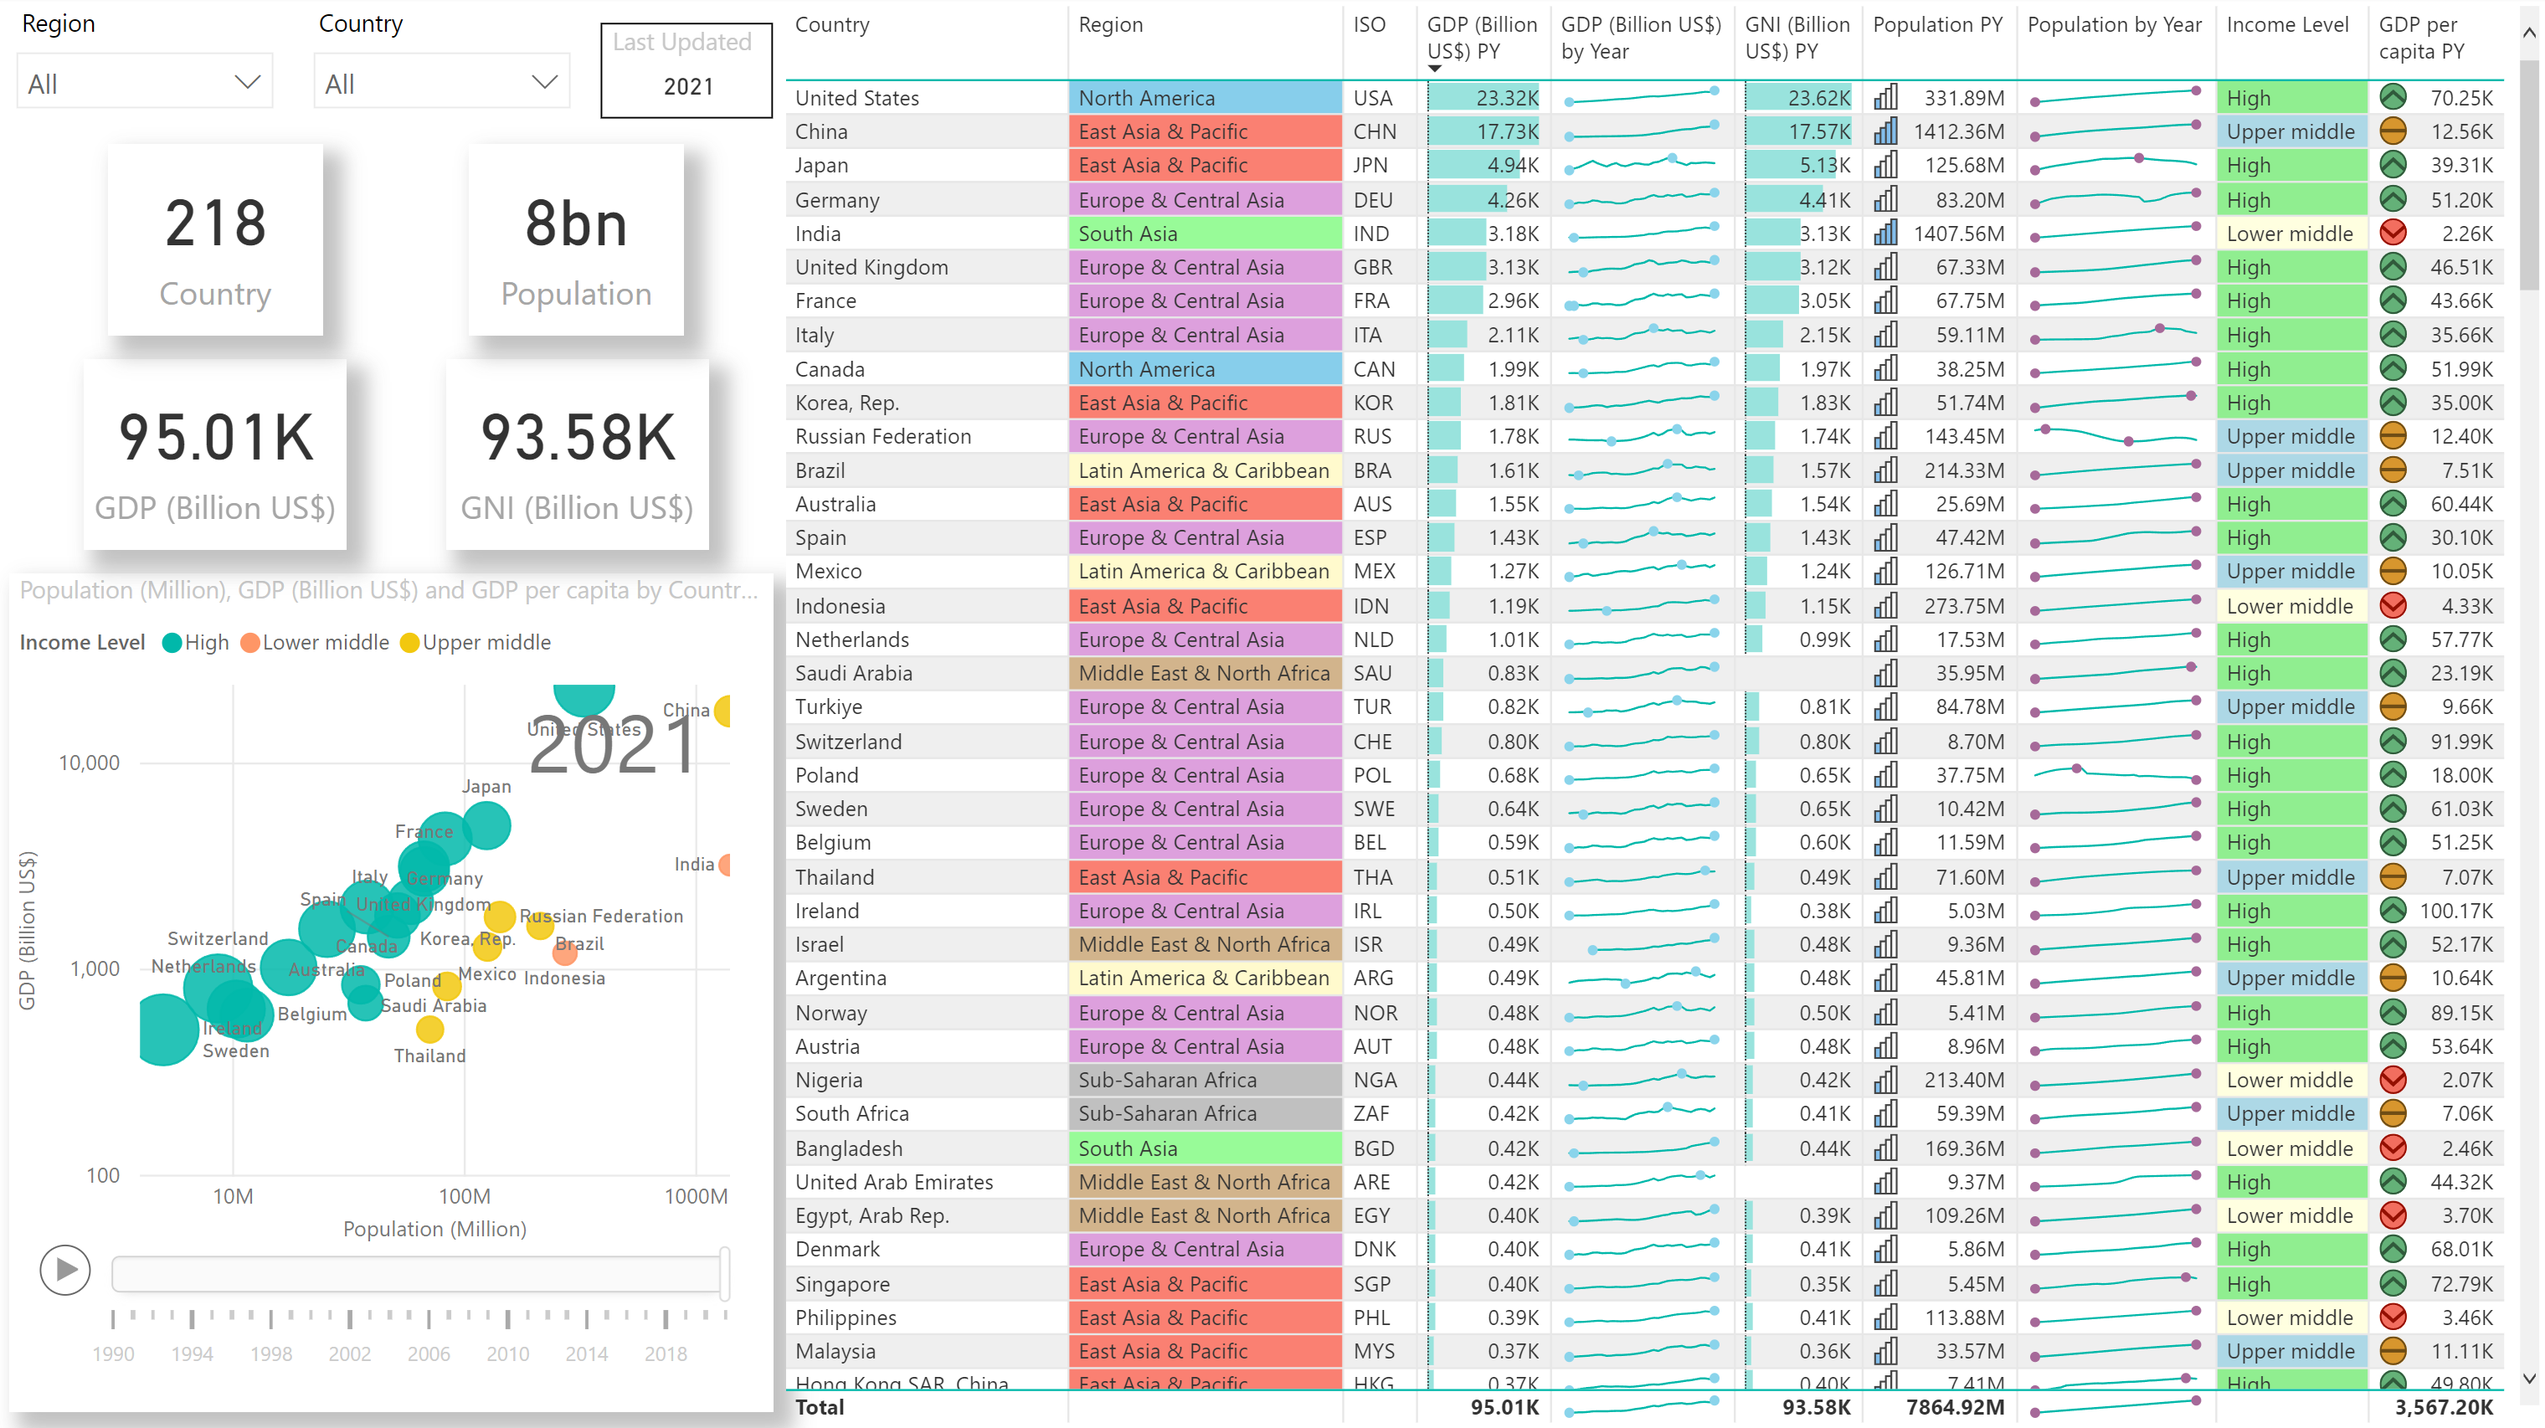
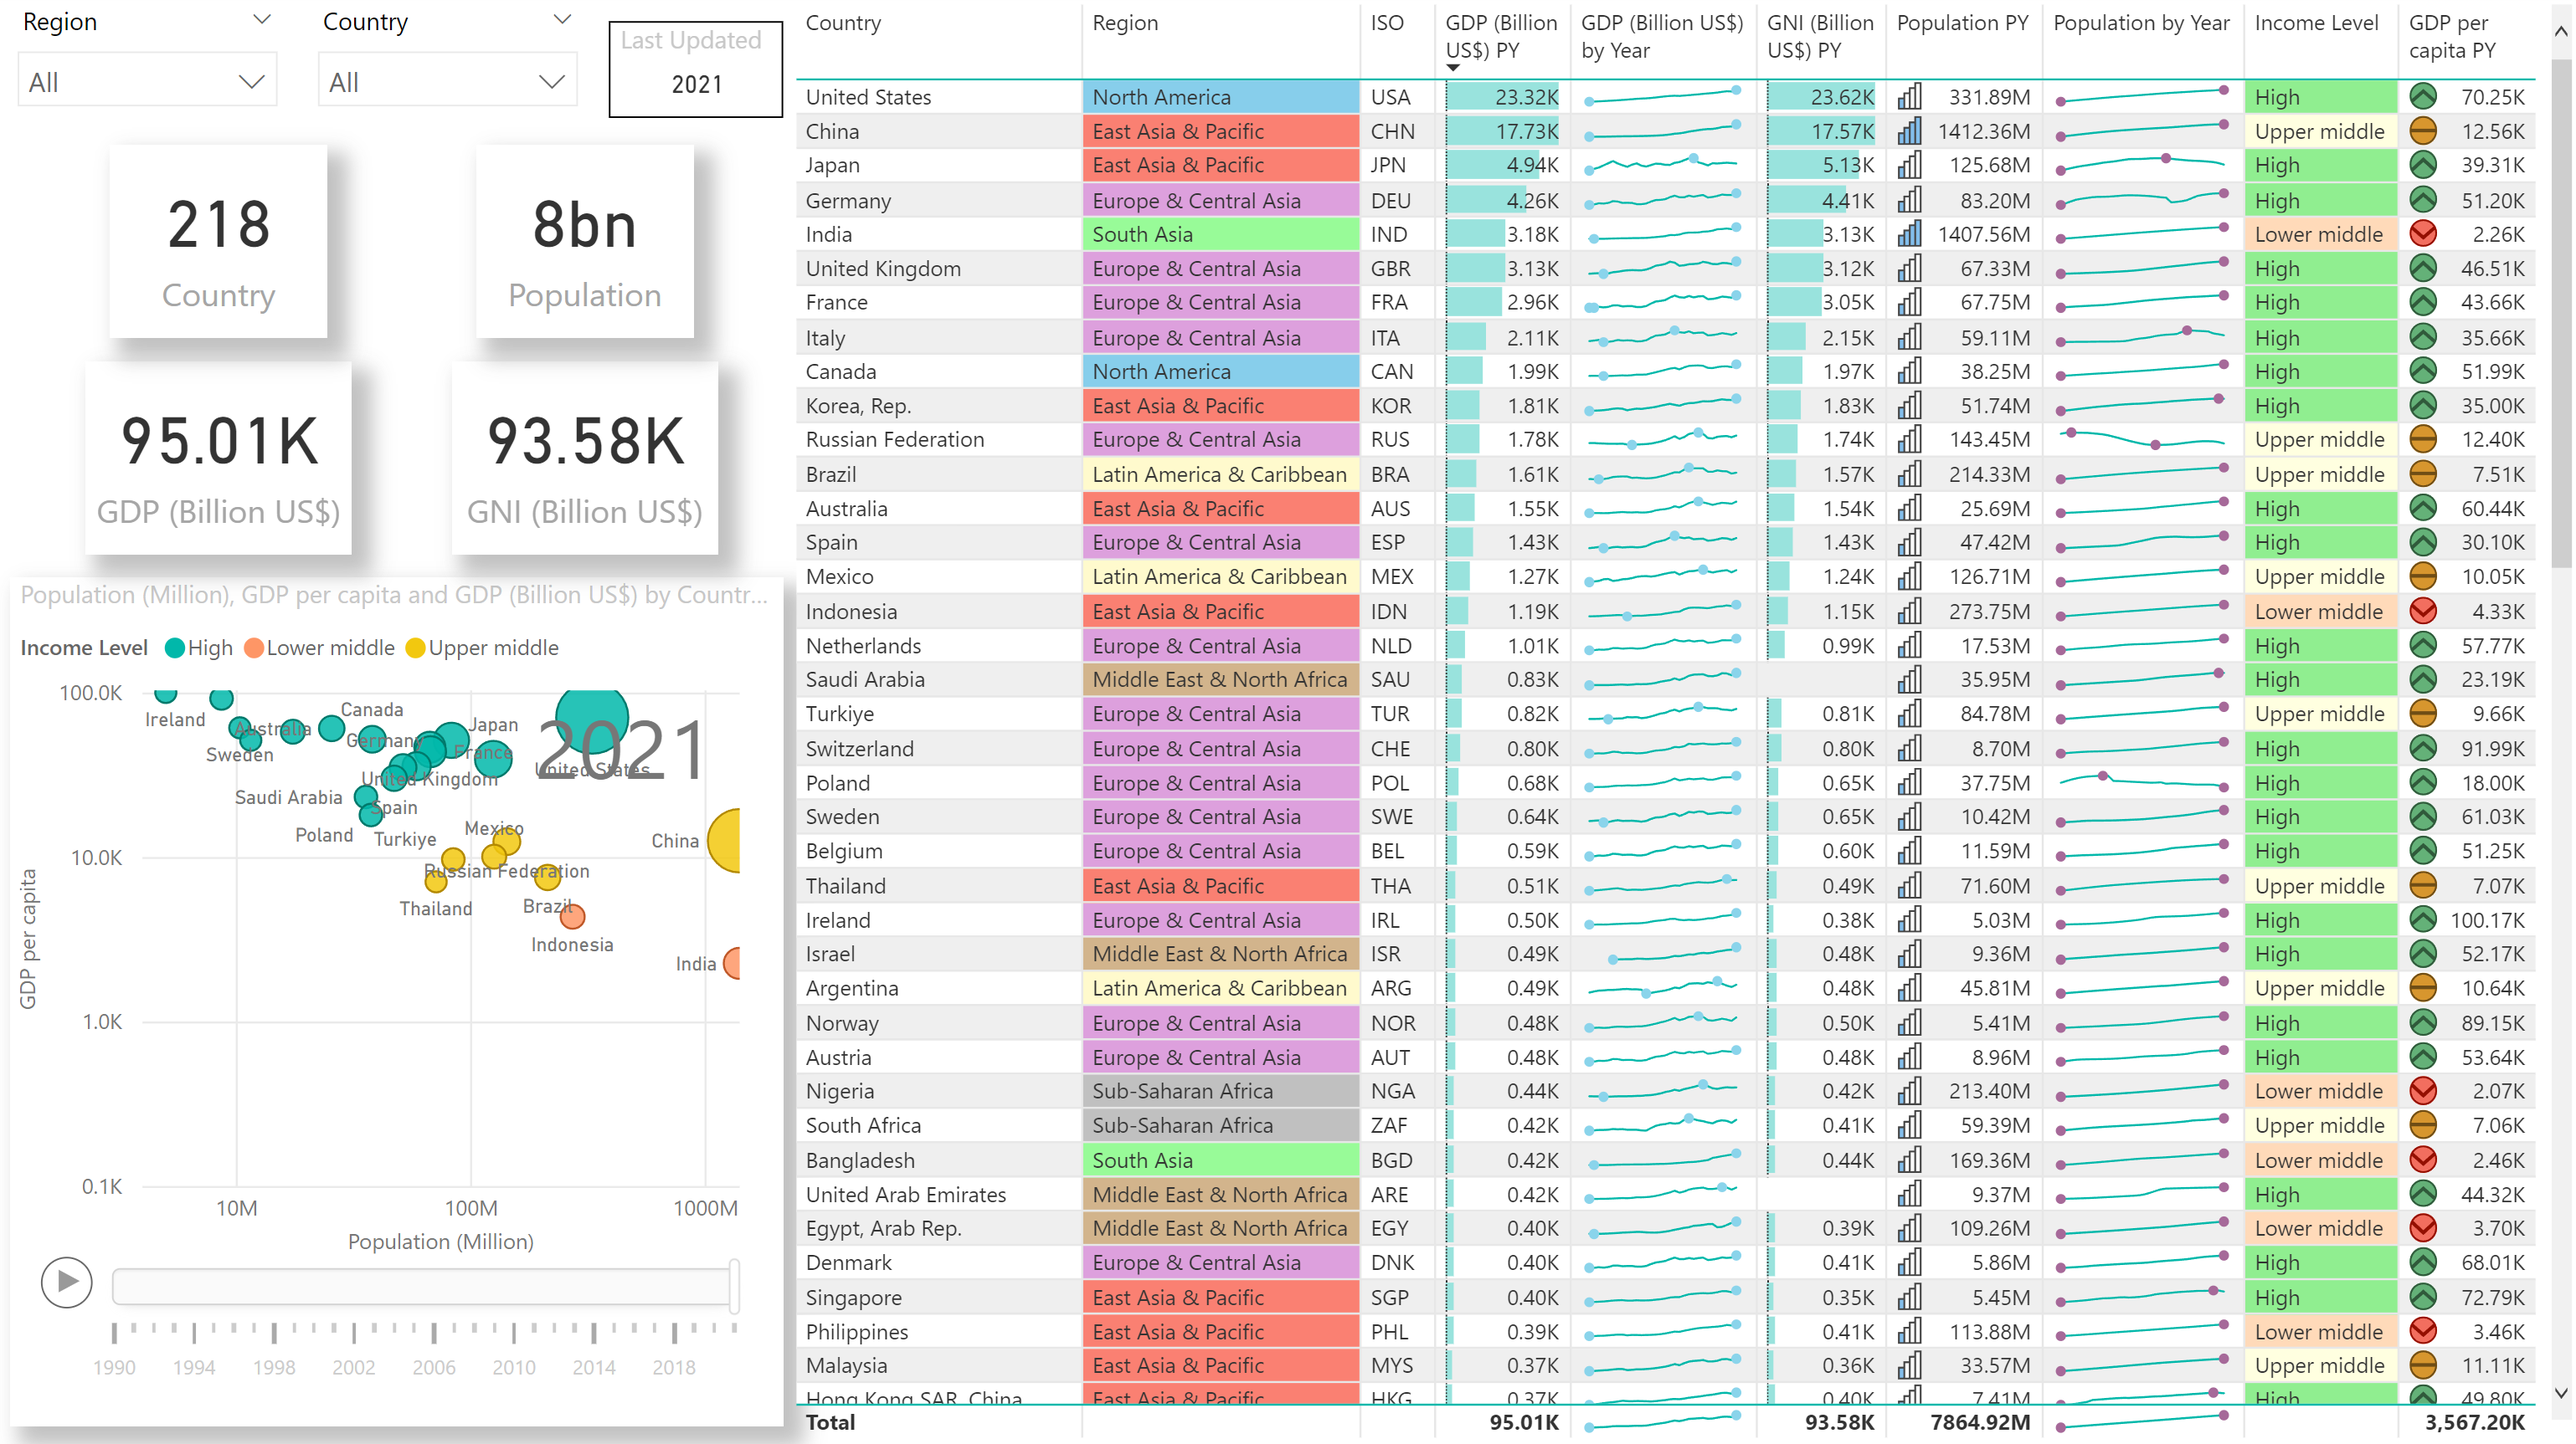
Update scatter chart for GDP per Capita

diff --git a/docs/WorldBank.md b/docs/WorldBank.md
@@ -267,7 +267,7 @@ in
 
 ### 2. **GDP** Page
 ![Screenshot](../_Asset%20Library/WorldBank_GDP_Screenshot.png)
-- Scatter chart - YoY GDP and Population changes for Top 25 Countires
+- Scatter chart - YoY GDP per Capita and Population changes for Top 25 Countires
 - Table - List of all countries with ISO3code, Income Level, GDP, GNI, Population, GDP per capita, and sparklines for GDP and Population
 
 ----------
